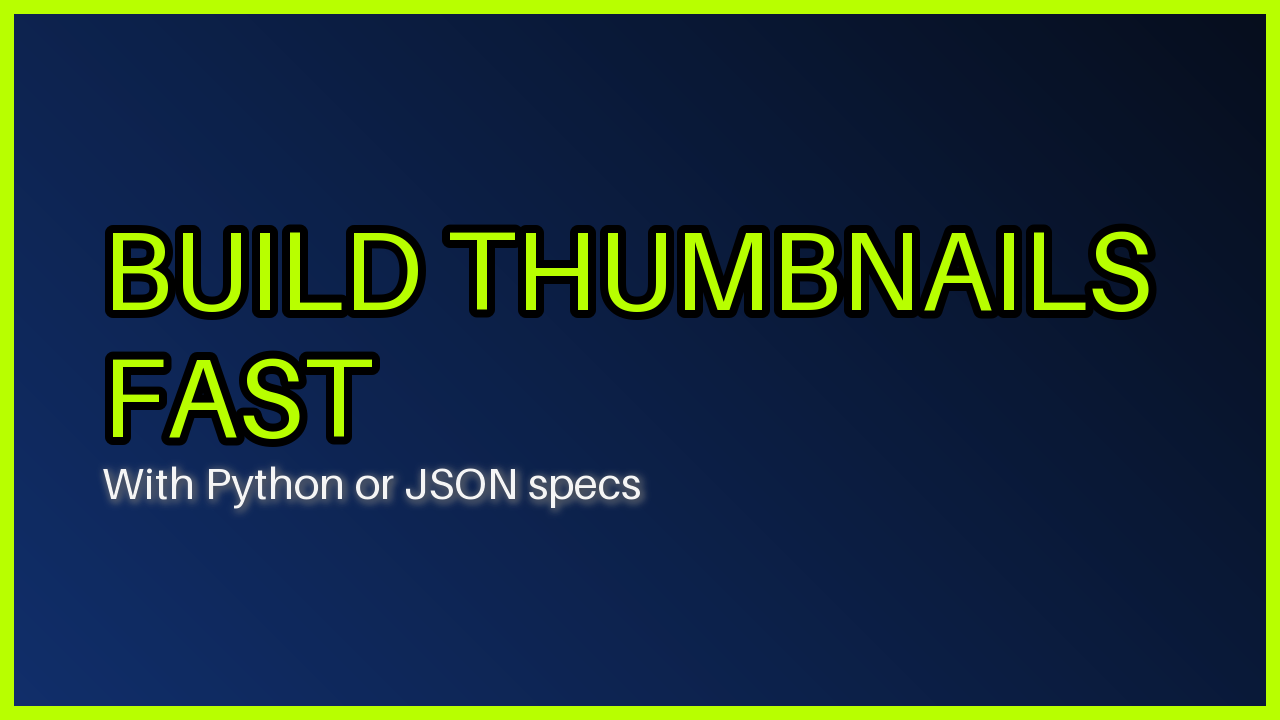
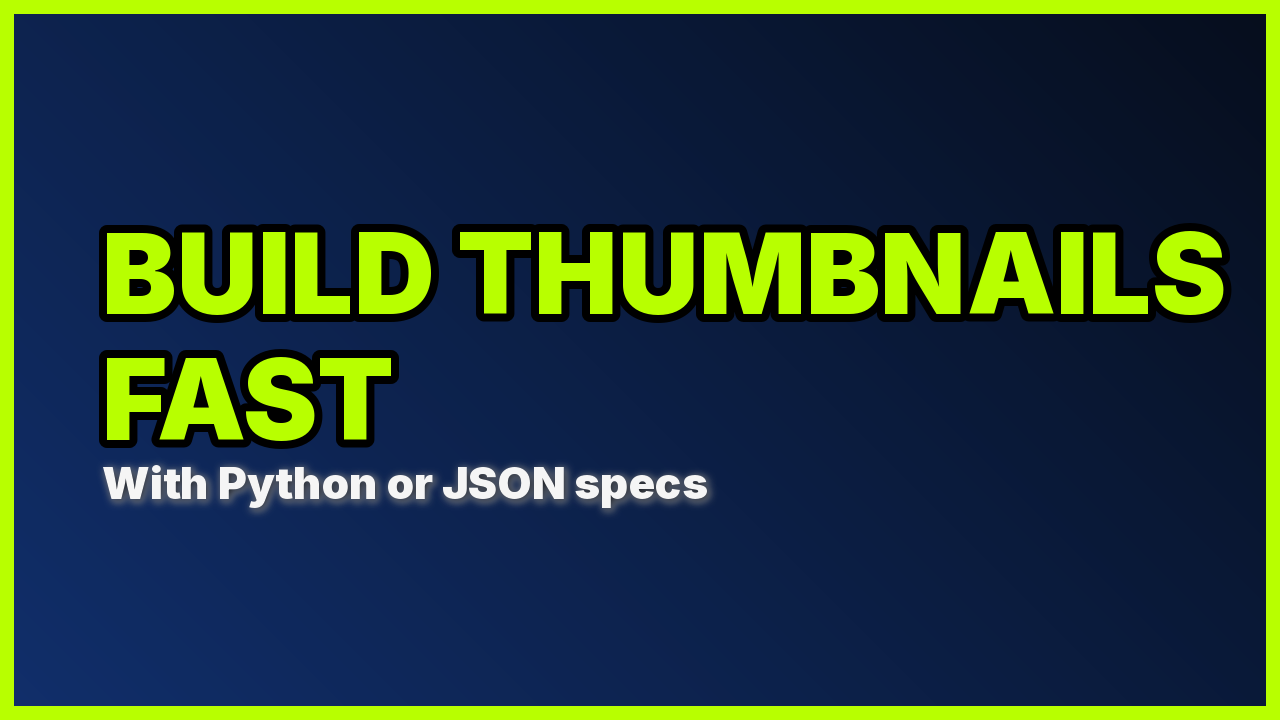
docs: fix examples that fail when copied
Found by running every Python and JSON block in the docs:

- "#fff" is rejected by the color validator; use six-digit hex.
- Two complete JSON specs and the FAQ's from_json example were missing
  the required "kind" discriminator.
- Deck examples passed a bare `...` after keyword arguments, which is a
  syntax error when pasted; they now pass real values.
- The Getting Started example set weight=900 without a font, so it
  rendered at regular weight; it now loads Inter from Google Fonts and
  the pictured output is re-rendered.
- canvas.md and deck.md linked to an exports.md anchor that no longer
  existed; the heading now has a stable id.
- json-schema.md referred to an internal milestone ("D1"); it now says
  what plugin layers do today.

Claude-Session: https://claude.ai/code/session_01HdhAVhMW1Mh21gLoCn8ssr

Changed region(s): [[0.0625, 0.3056, 0.9688, 0.4583], [0.0625, 0.4889, 0.5625, 0.7333]]

diff --git a/docs/api/deck.md b/docs/api/deck.md
@@ -45,12 +45,12 @@ Pass initial slides to the constructor (`Deck(slides=[...])`) and/or append them
 deck = (
     Deck(1280, 720)
     .slide(
-        Canvas().background(color="#101820").text(content="Cover", ...),
+        Canvas().background(color="#101820").text(content="Cover", size=96, color="#FFFFFF"),
         audio="voice.wav",
         duration=2.5,
         notes="Introduce the central thesis.",
     )
-    .slide(Canvas().background(color="#1A1A2E").text(content="Body", ...))
+    .slide(Canvas().background(color="#1A1A2E").text(content="Body", size=64, color="#FFFFFF"))
 )
 ```
 
@@ -131,7 +131,7 @@ pptx_bytes = deck.to_pptx()  # requires quickthumb[pptx]
 
 ### `.to_gif(...)` / `.to_webm(...)`
 
-Return the deck as an animation: each slide plays its layer animations, holds its settled state, and its transition animates the change into it (see [Animated GIF & video](../exports.md#animated-gif-video-mp4webm) for the timing model). `.to_webm()` requires the `ffmpeg` binary on `PATH` (or named by `QUICKTHUMB_FFMPEG`).
+Return the deck as an animation: each slide plays its layer animations, holds its settled state, and its transition animates the change into it (see [Animated GIF & video](../exports.md#animated-gif-video) for the timing model). `.to_webm()` requires the `ffmpeg` binary on `PATH` (or named by `QUICKTHUMB_FFMPEG`).
 
 ```python
 gif_bytes = deck.to_gif(fps=20, slide_duration=3.0, loop=0, matte="#000000")

diff --git a/docs/exports.md b/docs/exports.md
@@ -92,7 +92,7 @@ with open("promo.pdf", "wb") as f:
 !!! note "Fidelity"
     PDF shadings cannot express transparency, so translucent gradients (and gradients with translucent stops) are embedded as pictures. Blur effects (shadow, glow), strokes on shapes, and gradient/image glyph fills have no faithful PDF vector form and are likewise embedded as pixel-exact PNG fragments.
 
-## Animated GIF & video (Canvas MP4/WebM, Deck GIF/WebM)
+## Animated GIF & video { #animated-gif-video }
 
 Animated export renders per-layer `animation` effects and deck slide `transition`s as real raster frames, sampled through the same pixel pipeline as PNG output. Canvas GIF/MP4/WebM and Deck GIF/WebM play this animated timeline. `deck.render("deck.mp4", animation=VideoOptions(...))` also uses it; Deck MP4 without `VideoOptions` is the separate static narration workflow below.
 
@@ -254,8 +254,8 @@ from quickthumb import Canvas, Deck
 
 deck = (
     Deck(1280, 720)   # default slide size; Deck.from_aspect_ratio("16:9", 1280) also works
-    .slide(Canvas().background(color="#101820").text(content="Cover", ...))
-    .slide(Canvas().background(color="#1A1A2E").text(content="Body", ...))
+    .slide(Canvas().background(color="#101820").text(content="Cover", size=96, color="#FFFFFF"))
+    .slide(Canvas().background(color="#1A1A2E").text(content="Body", size=64, color="#FFFFFF"))
 )
 # pre-built canvases work too: Deck(slides=[cover, body])
 

diff --git a/docs/faq.md b/docs/faq.md
@@ -60,7 +60,7 @@ Auto-layout groups assign positions themselves — that's the point. Remove `pos
 
 ```python
 canvas.group(
-    children=[{"type": "text", "content": "TITLE", "size": 96, "color": "#fff"}],
+    children=[{"type": "text", "content": "TITLE", "size": 96, "color": "#FFFFFF"}],
     position=("8%", "50%"),
     align=("left", "middle"),
 )
@@ -81,7 +81,7 @@ Call `canvas.diagnose()` (or run `quickthumb lint spec.json` / `quickthumb diagn
 Use `max_width` to enable wrapping:
 
 ```python
-canvas.text(content="Long title here", size=72, color="#fff", max_width="60%")
+canvas.text(content="Long title here", size=72, color="#FFFFFF", max_width="60%")
 ```
 
 Or use `auto_scale=True` with `max_width` and/or `max_height` to shrink the text until it fits the declared bounds.
@@ -192,7 +192,7 @@ No — it expects a JSON **string**. Use `json.dumps()` first if you have a dict
 import json
 from quickthumb import Canvas
 
-data = {"width": 1280, "height": 720, "layers": [...]}
+data = {"kind": "canvas", "width": 1280, "height": 720, "layers": []}
 canvas = Canvas.from_json(json.dumps(data))
 ```
 

diff --git a/docs/api/canvas.md b/docs/api/canvas.md
@@ -157,7 +157,7 @@ with open("card.pdf", "wb") as f:
 
 ### `.to_gif(...)` / `.to_mp4(...)` / `.to_webm(...)`
 
-Return the canvas as an animation that plays its layer `animation` effects in sequence, then holds the settled composition for `hold` seconds (see [Animated GIF & video](../exports.md#animated-gif-video-mp4webm)). A canvas with no animations yields a single-frame GIF. `.to_mp4()`/`.to_webm()` require the `ffmpeg` binary on `PATH` (or named by `QUICKTHUMB_FFMPEG`).
+Return the canvas as an animation that plays its layer `animation` effects in sequence, then holds the settled composition for `hold` seconds (see [Animated GIF & video](../exports.md#animated-gif-video)). A canvas with no animations yields a single-frame GIF. `.to_mp4()`/`.to_webm()` require the `ffmpeg` binary on `PATH` (or named by `QUICKTHUMB_FFMPEG`).
 
 ```python
 gif_bytes = canvas.to_gif(fps=20, hold=3.0, loop=0, matte="#000000")

diff --git a/docs/json-schema.md b/docs/json-schema.md
@@ -79,8 +79,10 @@ The command writes deterministic JSON only, so it can be checked into a repo, pi
 
 ## Plugin layers
 
-Plugin registrations are kept in one explicit `PluginRegistry`. The registry is
-metadata only: D1 does not run renderer code or export native files.
+Plugin registrations are kept in one explicit `PluginRegistry`. A registration
+describes a layer type and its parameters; it does not supply drawing code.
+quickthumb can load, validate, and publish a schema for plugin layers, but
+rendering a canvas that contains one raises `RenderingError` for now.
 
 ```python
 from quickthumb import Canvas, PluginRegistry, canvas_json_schema
@@ -508,6 +510,7 @@ A full YouTube-style thumbnail spec:
 
 ```json
 {
+  "kind": "canvas",
   "width": 1280,
   "height": 720,
   "layers": [

diff --git a/docs/concepts.md b/docs/concepts.md
@@ -66,7 +66,7 @@ canvas.shape(shape="rectangle", position=(64, 64), width=200, height=80, color="
 canvas.image(path="portrait.png", position=("75%", "55%"), width=420, height=520)
 
 # Mix
-canvas.text(content="Hello", size=72, color="#fff", position=("8%", 360))
+canvas.text(content="Hello", size=72, color="#FFFFFF", position=("8%", 360))
 ```
 
 The `align` parameter controls which point of the layer the position refers to:
@@ -306,7 +306,7 @@ quickthumb validates all inputs at construction time using Pydantic. Invalid val
 from quickthumb import ValidationError
 
 try:
-    canvas.text(content="", size=64, color="#fff")  # empty content
+    canvas.text(content="", size=64, color="#FFFFFF")  # empty content
 except ValidationError as e:
     print(e)
 ```

diff --git a/docs/getting-started.md b/docs/getting-started.md
@@ -34,6 +34,8 @@ canvas = (
                 effects=[Shadow(offset_x=2, offset_y=2, color="#000000", blur_radius=4)],
             ),
         ],
+        font="Inter",
+        font_source="google",
         size=112,
         position=("8%", "50%"),
         align=("left", "middle"),
